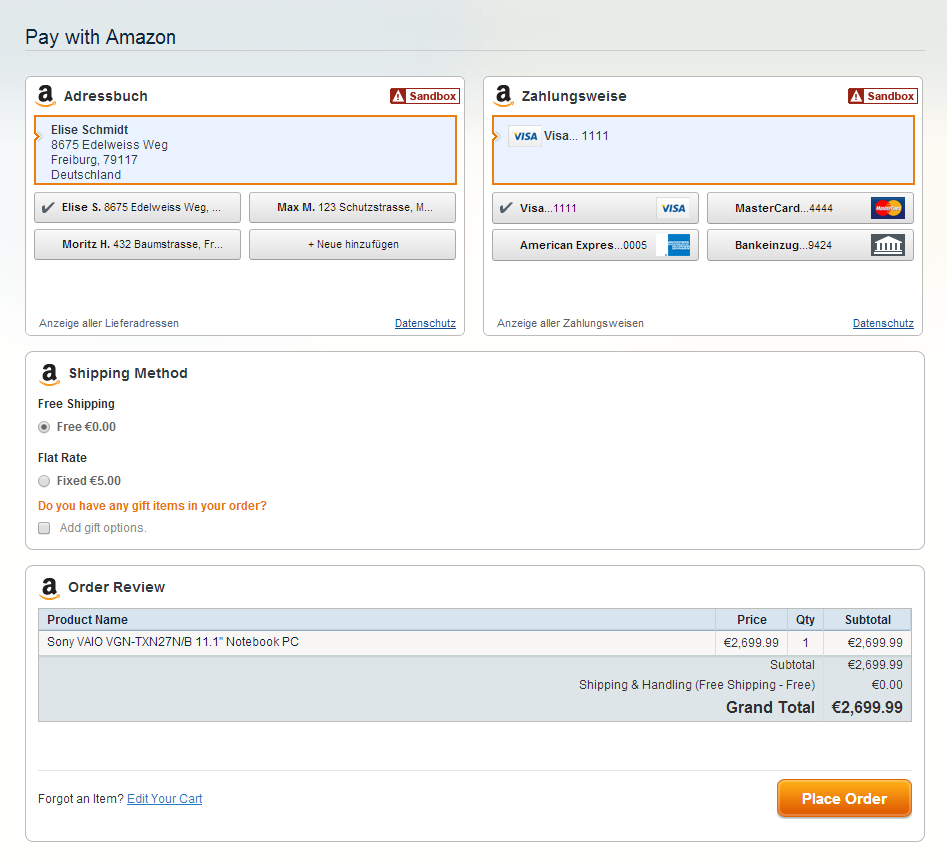
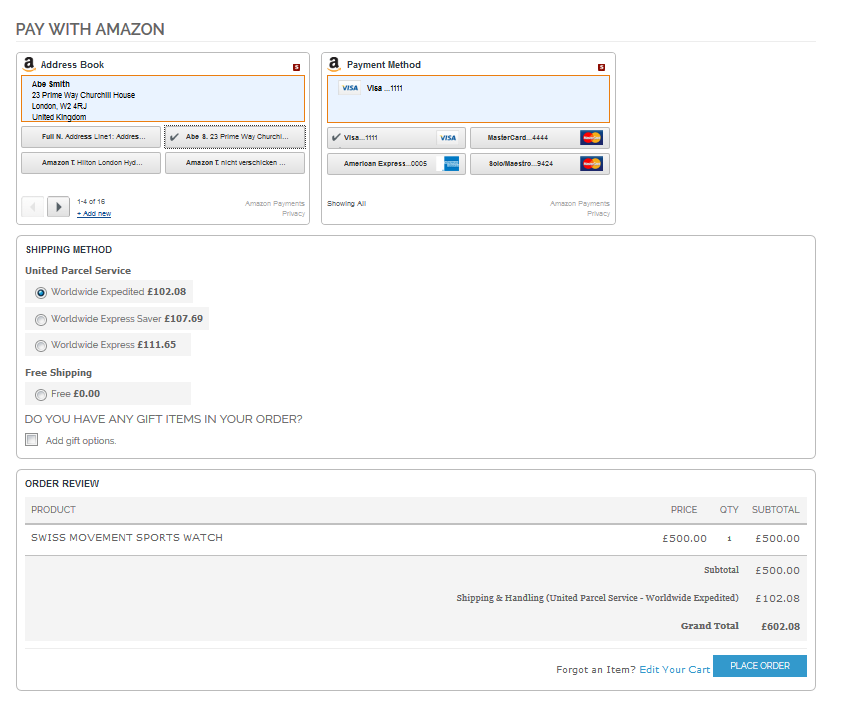
Bump version to 1.2.2 Add info about credentials checking to the FAQ Add screenhots for application registering for LwA Update Magento compatibility notes Update checkout screenshot to the english version

diff --git a/conf.py b/conf.py
@@ -45,7 +45,7 @@ source_suffix = '.rst'
 master_doc = 'index'
 
 # General information about the project.
-project = u'Pay with Amazon / Bezahlen über Amazon (Advanced Payment APIs) - extension for Magento'
+project = u'Login and Pay with Amazon / Login und Bezahlen mit Amazon (Advanced Payment APIs) - extension for Magento'
 copyright = u'2014 creativestyle GmbH'
 
 # The version info for the project you're documenting, acts as replacement for
@@ -53,9 +53,9 @@ copyright = u'2014 creativestyle GmbH'
 # built documents.
 #
 # The short X.Y version.
-version = '1.1'
+version = '1.2'
 # The full version, including alpha/beta/rc tags.
-release = '1.1.2'
+release = '1.2.2'
 
 # The language for content autogenerated by Sphinx. Refer to documentation
 # for a list of supported languages.

diff --git a/workflow.rst b/workflow.rst
@@ -71,7 +71,7 @@ In case the authorization has been declined due to any other reason then problem
 Capturing the payment amount
 ----------------------------
 
-After a successful authorization, you can capture funds against the authorization. The capture, similar to the authorization, can be requested in two modes: manual and automatic. By default you should capture the order amount at the moment you ship the ordered items by creating an invoice. You are only allowed to enable automatic capture if you sell digital goods or you ship items the same day they are ordered. Moreover you have to be white-listed by Amazon Payments. Contact Amazon Payments if you want to use this option.
+After a successful authorization, you can capture funds against the authorization. The capture, similar to the authorization, can be requested in two modes: manual and automatic. **By default you should capture the order amount at the moment you ship the ordered items by creating an invoice.** You are only allowed to enable automatic capture if you sell digital goods or you ship items the same day they are ordered. Moreover you have to be white-listed by Amazon Payments. Contact Amazon Payments if you want to use this option.
 
 :ref:`configuration-payment-action` option in the extension settings allows to switch between manual and automatic capture mode. For `Manual authorization` & `Authorization` actions the capture is triggerd by creating manually an invoice for the order in the Magento admin. For `Authorize & capture` action, the capture is requested automatically as soon as authorization is confirmed by Amazon Payments.
 

diff --git a/prerequisites.rst b/prerequisites.rst
@@ -7,7 +7,7 @@ System requirements
 
 **Login and Pay with Amazon** Magento extension requires you to have a valid Amazon Advanced Payments APIs account (refer to the :ref:`prerequisites-amazon-account-setup` if you don't have one yet) and a webserver running a Magento store instance with following conditions met:
 
-* Magento 1.5, 1.6, 1.7, 1.8
+* Magento CE (1.5, 1.6, 1.7, 1.8, 1.9) or EE (1.11, 1.12, 1.13, 1.14)
 * cURL for PHP
 * DOM / XML for PHP
 * valid SSL certificate (for **Login with Amazon** and / or IPN handling)
@@ -111,7 +111,11 @@ Registering application for Login with Amazon service
 
 Login and Pay with Amazon work together to provide a great buyer experience. To use **Login with Amazon** you have to register the application (Magento extension) that will be allowed to access buyers accounts through your Amazon Payments seller account. **Login with Amazon** configuration settings can be accessed through :guilabel:`Login with Amazon` Seller Central page.
 
+.. image:: /images/prerequisites_screenshot_19.png
+
 In the App Console register a new application by clicking the :guilabel:`Register new Application` button. The :guilabel:`Register Your Application` form will appear.
+
+.. image:: /images/prerequisites_screenshot_20.png
 
 In the application details page, add basic details about your web site. These details will be used on your website and mobile apps (if applicable).
 

diff --git a/faq.rst b/faq.rst
@@ -44,7 +44,7 @@ Lack of **Pay with Amazon** button in the cart is usually caused by one of the f
 * incorrect :ref:`configuration-marketplace` set,
 * your Amazon seller account is either blocked or not activated (you can check status of your account in Amazon Seller Central).
 
-In case you are sure you have :ref:`Merchant ID <configuration-credentials>` and :ref:`configuration-marketplace` correctly set, check if any of the following extensions are installed and enabled in your shop and follow the instructions:
+You can check validity of the provided Amazon Payments credentials using :ref:`configuration-validate-account` button available in the extension settings. In case you are sure you have :ref:`Merchant ID <configuration-credentials>` and :ref:`configuration-marketplace` correctly set, check if any of the following extensions is installed and enabled in your shop and follow the instructions:
 
 * Mxperts_NoRegion
 * FME_Ajaxaddtocart

diff --git a/installation.rst b/installation.rst
@@ -27,5 +27,6 @@ Post-installation steps
 * If you're using custom design theme, refer to the :ref:`Templates customization <customization-frontend-templates>` section to find out how to adjust **Login and Pay with Amazon** templates to your needs.
 * Go to :menuselection:`System --> Cache Management` and flush Magento cache storage.
 * If you have disabled compiler in pre-installation stage, you can go now to :menuselection:`System --> Tools --> Compilation`, recompile and enable compiler again.
+* Logout from the Magento admin and login again.
 
 Voila! The **Login and Pay with Amazon** extension shall be installed now. You can proceed to the :ref:`configuration` followed by :ref:`customization-frontend-templates` and :ref:`customization-email-templates` customization (if applicable).

diff --git a/index.rst b/index.rst
@@ -1,9 +1,9 @@
 .. image:: /images/amazon_payments_logo.png
    :align: right
 
-=================================================================
-Pay with Amazon (Advanced Payment APIs) - extension for *Magento* 
-=================================================================
+===========================================================================
+Login and Pay with Amazon (Advanced Payment APIs) - extension for *Magento*
+===========================================================================
 
 Proudly provided by:
 
